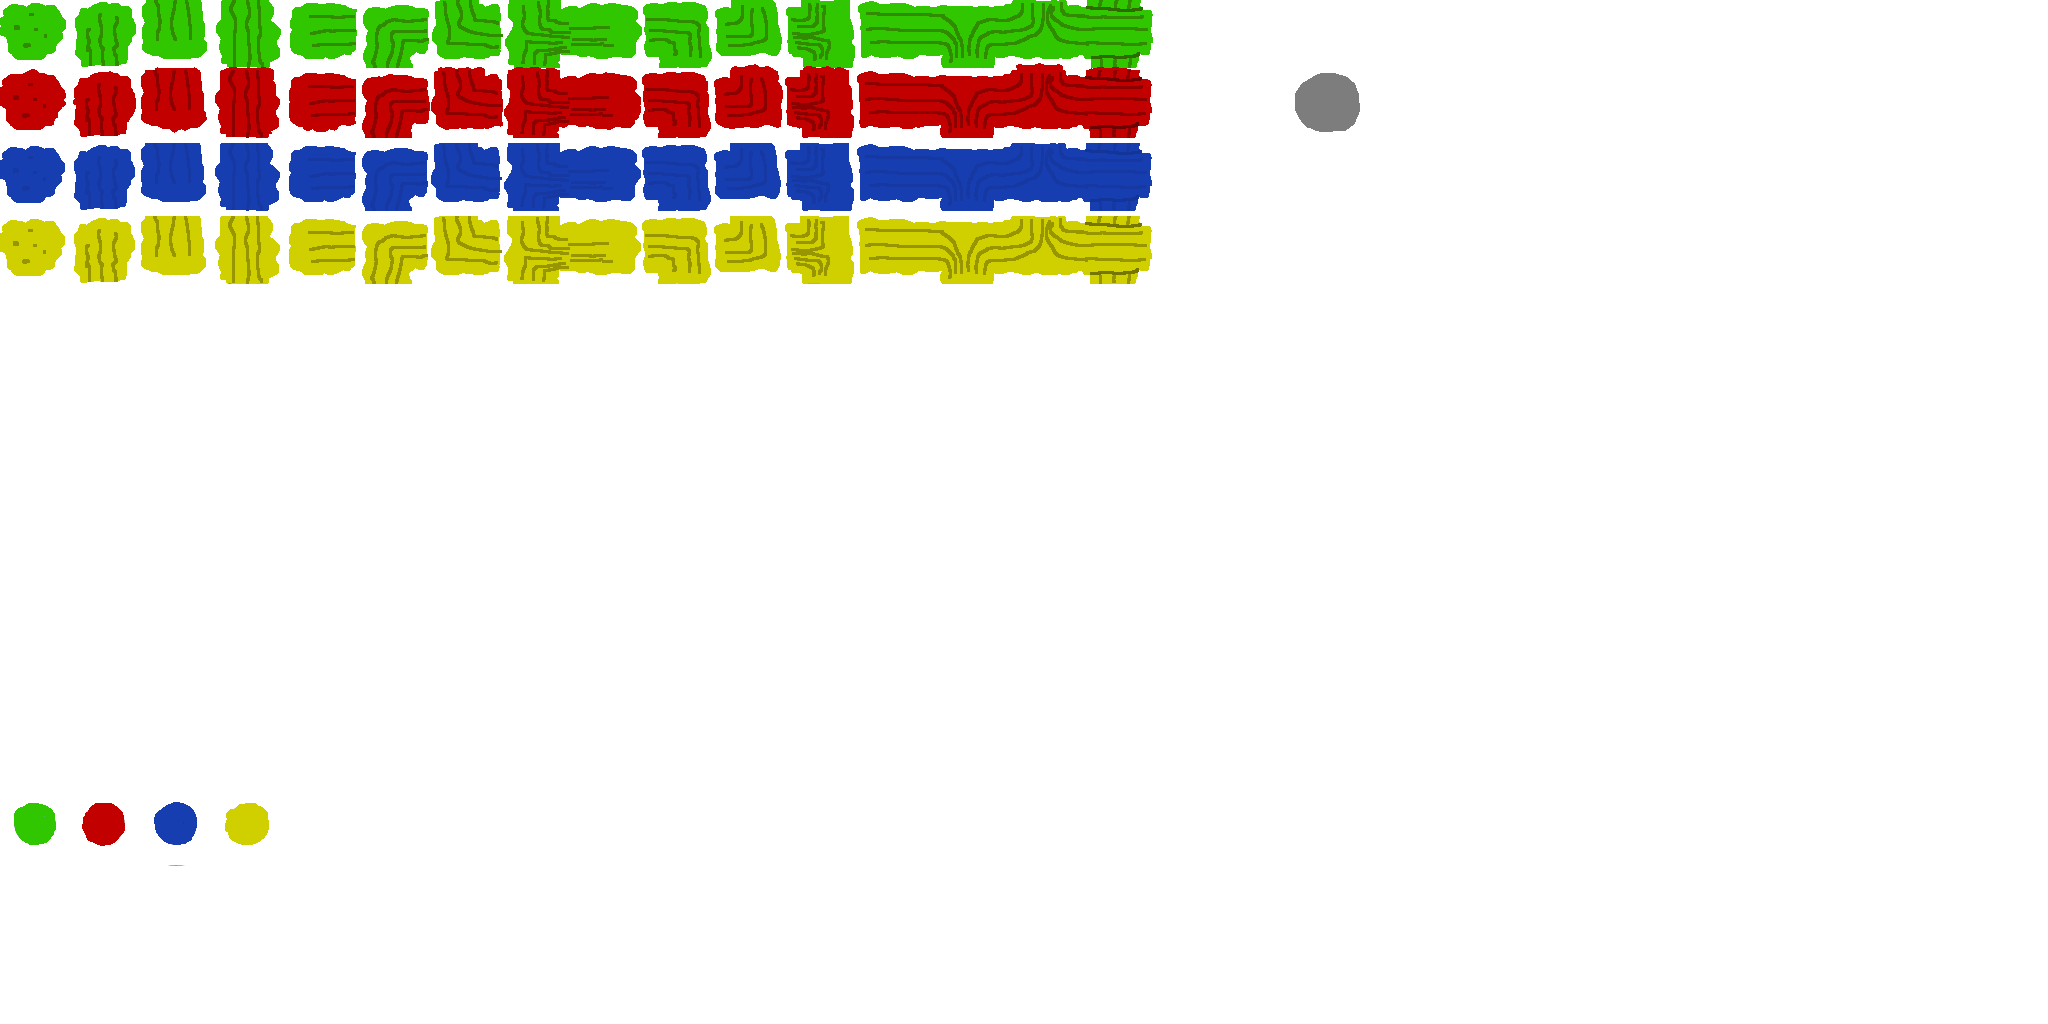
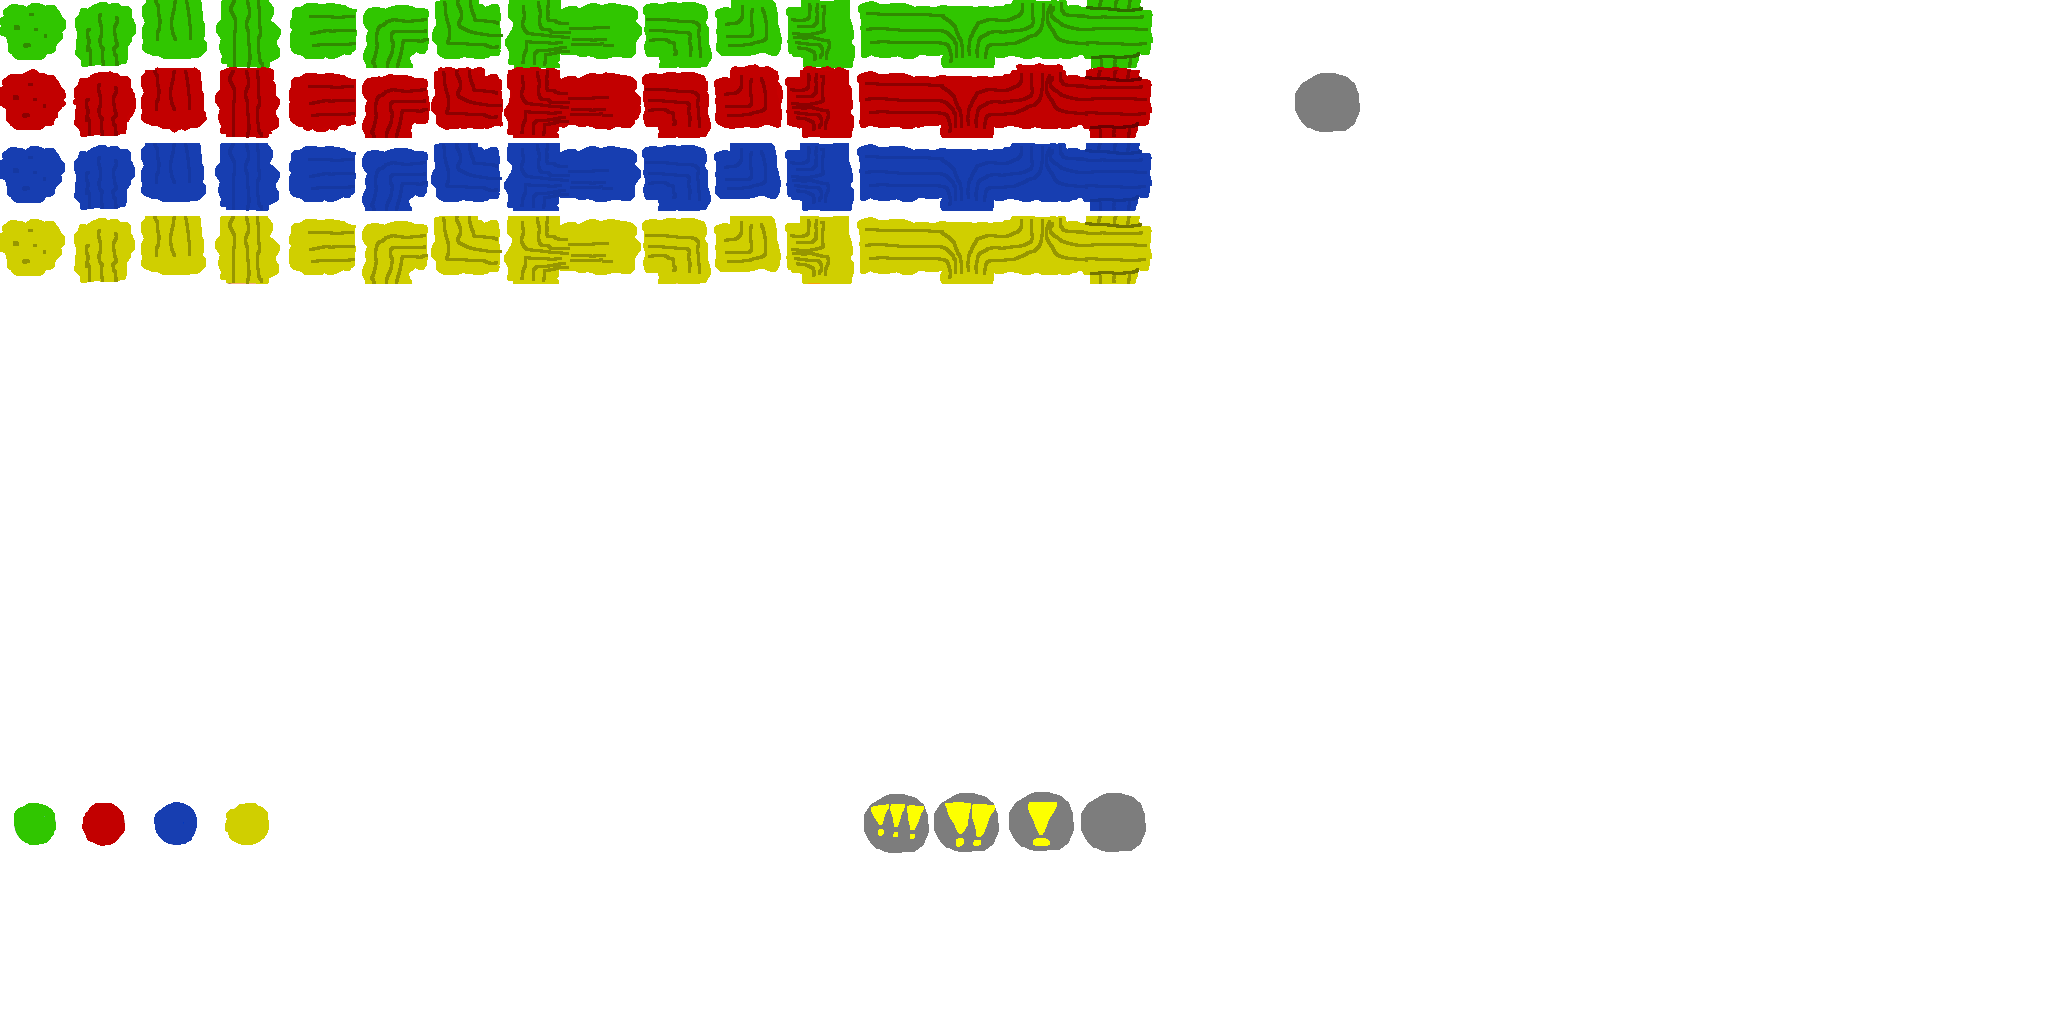
add garbage queue display

Changed region(s): [[0.4062, 0.75, 0.5625, 0.8438]]

diff --git a/puyo.c b/puyo.c
@@ -839,19 +839,40 @@ unsigned char getTilingMask(struct puyoBoard* _passedBoard, int _x, int _y){
 }
 void drawPuyoBoard(struct puyoBoard* _drawThis, int _startX, int _startY, char _isPlayerBoard, int tilew, u64 _sTime){
 	int _oldStartY = _startY;
+	_startX+=PUYOBORDERSMALLSZ;
 	// temp draw garbage
 	int _totalGarbage = _drawThis->readyGarbage;
 	int i;
 	for (i=0;i<_drawThis->incomingLength;++i){
 		_totalGarbage+=_drawThis->incomingGarbage[i];
 	}
-	gbDrawTextf(regularFont,_startX,_startY,255,255,255,255,"%d",_totalGarbage);
+	if (_totalGarbage!=0){
+		int _symbolAmounts[_drawThis->usingSkin->numQueueImages];
+		int _loopAmount = _totalGarbage;
+		for (i=0;i<_drawThis->usingSkin->numQueueImages;++i){
+			_symbolAmounts[i] = _loopAmount % _drawThis->lowBoard.w;
+			_loopAmount/=_drawThis->lowBoard.w;
+		}
+		if (_loopAmount!=0){
+			_symbolAmounts[_drawThis->usingSkin->numQueueImages-1]=_drawThis->lowBoard.w;
+		}
+		int _curSymbolX=0;
+		for (i=_drawThis->usingSkin->numQueueImages-1;i>=0;--i){
+			int j;
+			for (j=0;j<_symbolAmounts[i];++j){
+				drawTexturePartSized(_drawThis->usingSkin->img,_startX+_curSymbolX*tilew,_startY,tilew,tilew,_drawThis->usingSkin->queueIconX[i],_drawThis->usingSkin->queueIconY[i],_drawThis->usingSkin->puyoW,_drawThis->usingSkin->puyoH);
+				if ((++_curSymbolX)==_drawThis->lowBoard.w){
+					i=-1;
+					break;
+				}
+			}
+		}
+	}
 	// Find full size of the board and start clipping that area
-	_startY+=tilew;
+	_startY=_startY+tilew+PUYOBORDERSMALLSZ;
 	int _fullWidth=tilew*_drawThis->lowBoard.w+PUYOBORDERSMALLSZ*2;
 	int _fullHeight=tilew*(_drawThis->lowBoard.h-_drawThis->numGhostRows)+PUYOBORDERSMALLSZ*2;
-	enableClipping(_startX,_startY-PUYOBORDERSMALLSZ,_fullWidth,_fullHeight);
-	_startX+=PUYOBORDERSMALLSZ;
+	enableClipping(_startX-PUYOBORDERSMALLSZ,_startY-PUYOBORDERSMALLSZ,_fullWidth,_fullHeight);
 	if (_drawThis->lowBoard.status==STATUS_DEAD){
 		if (_sTime<=_drawThis->lowBoard.statusTimeEnd){
 			_startY+=partMoveFills(_sTime,_drawThis->lowBoard.statusTimeEnd,DEATHANIMTIME,(_drawThis->lowBoard.h-_drawThis->numGhostRows+1)*tilew);

diff --git a/skinLoader.c b/skinLoader.c
@@ -12,7 +12,7 @@
 
 #include "skinLoader.h"
 
-struct puyoSkin lowLoadSkinFile(crossTexture _passedImage, int _numColors, int _xStart, int _yStart, int _xSeparation, int _ySeparation, int _singlePuyoW, int _singlePuyoH, int _ghostStartX, int _ghostY){
+struct puyoSkin lowLoadSkinFile(crossTexture _passedImage, int _numColors, int _xStart, int _yStart, int _xSeparation, int _ySeparation, int _singlePuyoW, int _singlePuyoH, int _ghostStartX, int _ghostY, int _passedQueueCount, int _passedQueueX, int _passedQueueY){
 	struct puyoSkin _ret;
 	if (_passedImage==NULL){
 		printf("Image not found\n");
@@ -39,10 +39,17 @@ struct puyoSkin lowLoadSkinFile(crossTexture _passedImage, int _numColors, int _
 			_ret.colorY[i][j]=i*_ySeparation+_yStart;
 		}
 	}
+	_ret.numQueueImages=_passedQueueCount;
+	_ret.queueIconX=malloc(sizeof(int)*_ret.numQueueImages);
+	_ret.queueIconY=malloc(sizeof(int)*_ret.numQueueImages);
+	for (i=0;i<_ret.numQueueImages;++i){
+		_ret.queueIconX[i]=_passedQueueX+(_ret.numQueueImages-i-1)*_xSeparation;
+		_ret.queueIconY[i]=_passedQueueY;
+	}
 	return _ret;
 }
 struct puyoSkin loadChampionsSkinFile(crossTexture _passedImage){
-	struct puyoSkin _ret = lowLoadSkinFile(_passedImage,5,0,0,72,72,64,64,0,11*72);
+	struct puyoSkin _ret = lowLoadSkinFile(_passedImage,5,0,0,72,72,64,64,0,11*72,4,864,790);
 	_ret.garbageX=18*72;
 	_ret.garbageY=72;
 	return _ret;

diff --git a/main.c b/main.c
@@ -177,7 +177,8 @@ double getBoardW(void* _passedBoard, boardType _passedType){
 double getBoardH(void* _passedBoard, boardType _passedType){
 	switch(_passedType){
 		case BOARD_PUYO:
-			return ((struct puyoBoard*)_passedBoard)->lowBoard.h-((struct puyoBoard*)_passedBoard)->numGhostRows+2;
+			// plus top and bottom borders
+			return ((struct puyoBoard*)_passedBoard)->lowBoard.h-((struct puyoBoard*)_passedBoard)->numGhostRows+2+PUYOBORDERSMALLSZDEC*2;
 			break;
 		case BOARD_YOSHI:
 			return (((struct yoshiBoard*)_passedBoard)->lowBoard.h+YOSHINEXTNUM-YOSHINEXTOVERLAPH)*YOSHI_TILE_SCALE+SWAPDUDESMALLTILEH;

diff --git a/skinLoader.h b/skinLoader.h
@@ -21,6 +21,9 @@ struct puyoSkin{
 	int* ghostY;
 	int garbageX;
 	int garbageY;
+	int numQueueImages;
+	int* queueIconX;
+	int* queueIconY;
 };
 
 //struct puyoSkin lowLoadSkinFile(crossTexture _passedImage, int _numColors, int _xSeparation, int _ySeparation, int _singlePuyoW, int _singlePuyoH);
